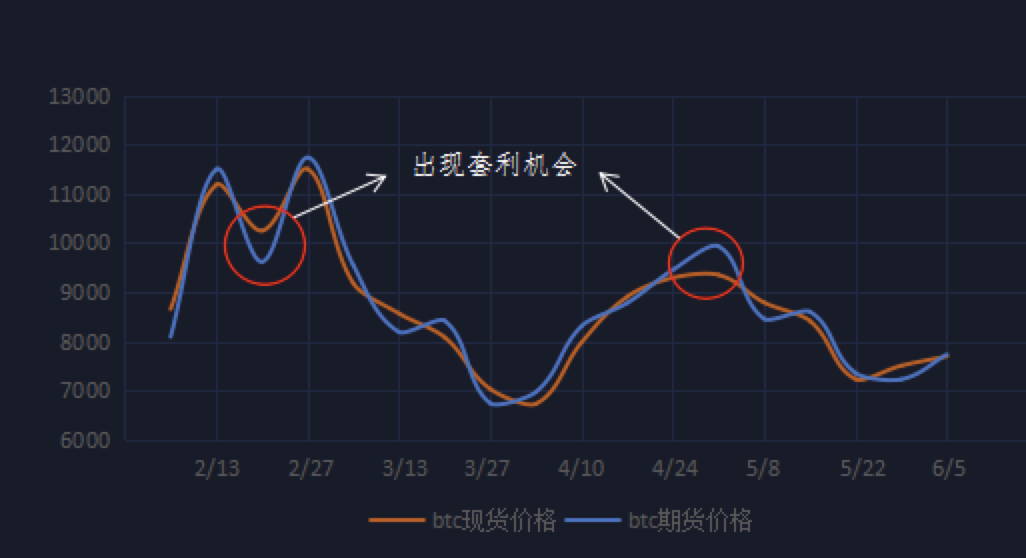
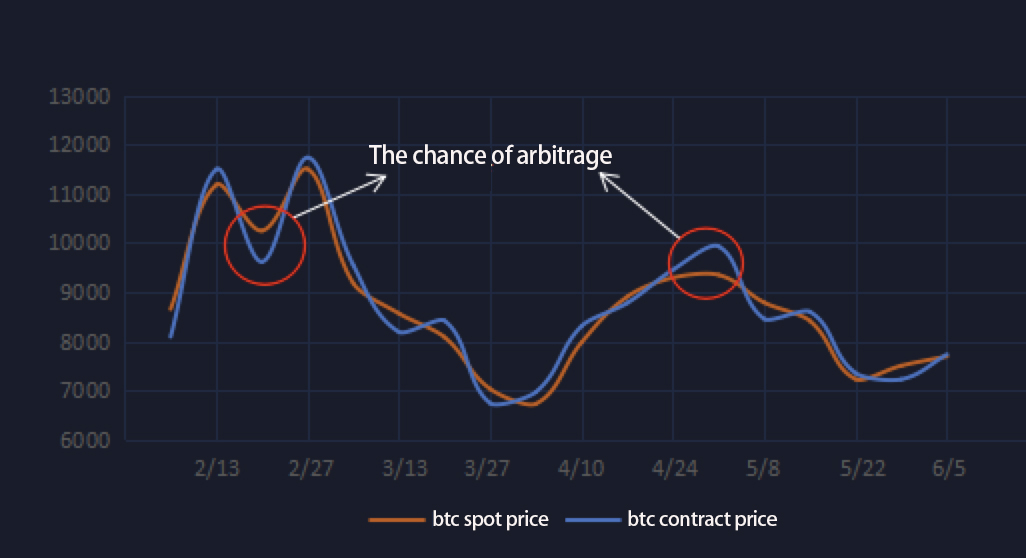
spot-contract update

Changed region(s): [[0.3431, 0.2437, 0.5926, 0.3351], [0.5926, 0.914, 0.7797, 0.9444], [0.4055, 0.914, 0.5614, 0.9749]]

diff --git a/README.md b/README.md
@@ -1,49 +1,53 @@
-# 期现套利策略
+# Spot_contract_ arbitrage
 
-期现套利是指利用期货市场和现货市场之间的差价，**在价格低的市场买入或做多，同时在价格高的市场卖出或者做空**，**等到差价消失时平仓从而获利的行为**。
+## Strategy description
 
-由于期货合约交割机制的存在，同一数字货币的价格在现货市场和期货市场紧密相连，期货价格最迟在合约到期日会和现货价格趋同，所以当期货合约和现货之间存在价差的时候，就可以进行无风险套利。
+Spot-contract arbitrave refres to the profitable strategy applies to the price spread between the futures market and spot market: **long in lower price market while short in the higher price market until the price spread disappears to close the positions**.  
 
-策略相当于“**在现货市场进货，在期货市场交割卖出**”，投资者所获得的单位利润为，当时期货价格与现货价格的价差减去持有成本和交割成本。
+Because the future contract settlement system, the prices of the same digital currency is closely connected in the spot market and the futures market, the the futures price will converge with the spot price at latest of the contract expiration date. So you could operate riskless arbitrage when the price spread shows up.  
 
-合约价格一定程度反映市场对于标的未来价格的预期。当出现剧烈行情时，合约价格将会与现货价格出现较大偏离，产生基差。本策略的核心逻辑为现货与合约之间基差的回归存在套利机会。合约价格在临近交割会趋近于现货价格；另一方面，基差也可能在市场波动率减小的过程中恢复到正常水平。
+To some extent, the contact price reflects to the market's expectations of the underlying assets. In the wild fluctuation, the price spread between futures market and spot market will rise up to result a basis. The nuclear logic of this strategy is that the basis of the futures and spot must retrace: the future price  will converge the spot price at latest of the contract expiration date, on the other hand, the basis will trace to the normal levels while the market fluctuations reduction.  
 
-举个例子，我们来看看具体怎么操作，**假设我们现在零手续费**：
+e.g.: let's see how it works, **if the trading fee is for free**
 
-<img src="kline.jpg" alt="kline" style="zoom:50%;" />
+![KLINE](KLINE.jpg)
 
-5月1日比特币期货价格为9925美元/枚，现货价格为9345美元/枚，基差为580美元/枚。
+On May 1, the price of BTC future is 9925 USD while the price of BTC is 9345 USD, the basis is 580 USD.
 
-至5月15日，比特币期货价格为8590美元/枚，当日现货价格为8410美元/枚，基差缩小到180美元/枚。
+On May 15, the price of BTC future is 8590 USD while the price of BTC is 8410 USD, the basis drops down to 180 USD.  
 
-如在5月1日，以9925美元/枚的价格开仓卖出一手比特币期货合约，同时以9345美元/枚的价格买入一枚比特币现货。
+If we short the BTC future valued as 1 BTC at 9925 USD, and we buy 1 BTC at 9345 USDT at the same time on May 1.  
 
-在5月15日时，对期货进行平仓，同时以8410美元/枚的价格卖出比特币。
+On May 15, close the future position and sell 1 BTC at 8410 USD.  
 
-此次期现套利组合盈利就是580-180=400，也就是每手期货保守盈利400点，折算成现货每枚比特币增加盈利400美元。
+Then this spot contract arbitrage profit is 400 USD = 580 USD - 180 USD.
 
-此外，我们可以将策略**高频化**，因为如果我们在期现套利时始终等到交割时才进行平仓获利，我们的交易次数会很少，整体的收益会比较偏低。
+We could say that the strategy is **"buying in the spot market, and closeing the contracts in future market"**, the unit profit obtained by investors is the price spread of futures price and the spot pricee at the same time minus the holding cost and settlement cost.  
 
-**通过对现货和期货价格的监控，我们可以发现两者价格曲线时互相交错的，所以我们只需要在有价差时建仓，在价格相等时平仓从而获利，等到再次出现价差时再次建仓，不断循环，不需要等到交割时再平仓，这样就可以大大提高交易频率，从而提高整体收益**。
+Besides, we could make the strategy **"higher frequency"**, because if we always wait for the settlement of futures to close the positionsand get the profit, we have few numbers of trades, then the overall profit would be relatively low.  
 
-**期现套利主要包括正向基差套利和反向基差套利**。
+**Through the monitoring of spot and futures prices, we could find that these two price curves intresect each other sometimes, so we only need to open the position when there is a price spread, and then close thee position when the price is equal to make a profit. When the pricee spread occurs again, we could open the position again. Continuously, there is no need to wait for settlement of futures, then the frequency of trades could be greatly increased, thereby increasing the overall profit**.  
 
-也就是说当现货价格被低估，期货合约价格被高估时，你可以卖出该期货合约，同时买入同等数量的现货，建立套利头寸。当现货和期货价格差距趋于正常时，将期货合约平仓，同时卖出对应现货，从中获得利润。
+**Spot-contract arbitrage includes positive basis arbitrage and reverse basis arbitrage**:
 
-相反，当现货价格被高估，期货合约价格被低估时，投资者可以买入该期货合约，同时卖出同等数量现货，建立套利头寸。当现货和期货价格趋于正常时，同时平仓，获利了结，这是反向基差套利。
+That is to say, when the spot price is underestimated and the futures contract price is overestimated, you can sell to short the futures contract while buying to long the same amount of spot to establish an arbitrage position. When the price spread of spot and futures becomes normal, close the futures contracts and sell the spot at the same time to obtain profits from it. This is positive basis arbitrage.
 
-**期现套利对期货市场有非常重要的作用**：
+Conversely, when the spot price is overestimated and the futures contract price is underestimated, investors could buy to long the futures contract and sell the same amount of spot at the smae time to establish an arbitrage position. When the price spread of spot and futures becomes normal, we need to close the positions at the same time to get profits. This is reverse basis arbitrage. 
 
-1. 正因为期货与现货之间可以套利，期货的价格才不会脱离现货价格而出现离谱的价格，使得数字货币的价格更合理，更能反应市场的走势。
-2. 套利行为有助于市场流动性的提高，更有利于投资者交易和套期保值操作的顺利进行。
+**Spot-contract arbitrage has a very important effect on the futures market**:  
 
-比特币现货价格跌宕起伏，与期货间的基差经常出现较大偏离。如果你能掌握期现套利的方法，抓住这些机会，那一定可以收获可观的利润。
+1. Because of spot-contract arbitrage, futures prices will not be outrageous and deviate from the spot prices, and it also make the price of digital cureencies more reasonable and more responsive to market trends.  
+2. Arbitrage operations helps to improve marekt liquidity, and is more conductive to the smooth progress of invesment trades and hedging operations.  
 
-**但是，在实操过程中，手续费是不可忽视的，而且需要开的合约张数也未必刚好是整数**。因此，由于这些误差，期现套利的收益会产生一些波动。在价格急剧波动的时候，收益波动也会比较大。
+Bitcoin spot prices fluctuate up and down, and the basis for futures ofthen deviates significantly. If you can control the spot-contract arbitrage  well and seize the opprtunities, you can definitely gain considerable profits.
 
-**值得关注的是，KuCoin拥有level3级别的交易数据、极优的撮合引擎，以及对api用户提供特别的手续费折扣，极大程度的减少了你在策略实施时的劣势，同时提供sandbox环境作为数据测试支撑，帮助你规避风险。**
+**However, during the actual operations, the trading fee cannot be ignored, and the number of contracts to be opened may not be exactly and integer**. Therefore, due to these possible error, the profit of spot-contract arbitrage could produce some fluctuations. When the price fluctuates sharply, the fluctuation of income would be relatively large.  
 
-**不过，请注意，如果你想在实际环境中利用策略获得稳定的盈利，我们希望你能够在sandbox环境配合其他参数或是策略进行测试调整，以使你能够达到目的，我们也非常期待你能分享你的测试数据以及独到的见解。**
+**Moreover, KuCoin provides the transaction data of level 3, great matching engine, and the commission discount specially offers to the API customers, which could greatly reduce the disadvantages of the trading operations. At the same time, we offer the sandbox environment as the data testing support to avoid the risks.**
 
-**当然，如果这个过程中，你遇到任何问题需要帮助亦或是有赚钱的策略想要分享，请在ISSUE中反映，我们会努力及时响应。**
+**Only a simple and incomplete trading strategy is provided here, so please pay attention to avoiding risks when using it. Of course, we do not want you to suffer more losses, so please do not directly run it in the actual environment before you have tested it yourself. We do not want you to become a philanthropist! ! !**
+
+**If you want to use the strategy in the actual environment to earn stable profits, we hope that you can make test adjustments in the sandbox environment with other parameters or strategies to enable you to achieve your goals. We also look forward to sharing your test data and Insights.**
+
+**Surely, if you encounter any problems in this process, or you have a profitable strategy to share, please reflect in ISSUE, we will try to respond in a timely manner.**
 

diff --git a/README_CN.md b/README_CN.md
@@ -1,26 +1,28 @@
 # 期现套利策略
 
+## 策略说明
+
 期现套利是指利用期货市场和现货市场之间的差价，**在价格低的市场买入或做多，同时在价格高的市场卖出或者做空**，**等到差价消失时平仓从而获利的行为**。
 
 由于期货合约交割机制的存在，同一数字货币的价格在现货市场和期货市场紧密相连，期货价格最迟在合约到期日会和现货价格趋同，所以当期货合约和现货之间存在价差的时候，就可以进行无风险套利。
-
-策略相当于“**在现货市场进货，在期货市场交割卖出**”，投资者所获得的单位利润为，当时期货价格与现货价格的价差减去持有成本和交割成本。
 
 合约价格一定程度反映市场对于标的未来价格的预期。当出现剧烈行情时，合约价格将会与现货价格出现较大偏离，产生基差。本策略的核心逻辑为现货与合约之间基差的回归存在套利机会。合约价格在临近交割会趋近于现货价格；另一方面，基差也可能在市场波动率减小的过程中恢复到正常水平。
 
 举个例子，我们来看看具体怎么操作，**假设我们现在零手续费**：
 
-<img src="kline.jpg" alt="kline" style="zoom:50%;" />
+![KLINE_CN](KLINE_CN.jpg)
 
 5月1日比特币期货价格为9925美元/枚，现货价格为9345美元/枚，基差为580美元/枚。
 
 至5月15日，比特币期货价格为8590美元/枚，当日现货价格为8410美元/枚，基差缩小到180美元/枚。
 
-如在5月1日，以9925美元/枚的价格开仓卖出一手比特币期货合约，同时以9345美元/枚的价格买入一枚比特币现货。
+如在5月1日，以9925美元/枚的价格卖出开空价值1枚比特币期货的合约，同时以9345美元/枚的价格买入一枚比特币现货。
 
 在5月15日时，对期货进行平仓，同时以8410美元/枚的价格卖出比特币。
 
-此次期现套利组合盈利就是580-180=400，也就是每手期货保守盈利400点，折算成现货每枚比特币增加盈利400美元。
+此次期现套利组合盈利就是580-180=400，也就是每手期货保守盈利400点，折算成现货每枚比特币增加盈利400美元。  
+
+策略相当于“**在现货市场进货，在期货市场交割卖出**”，投资者所获得的单位利润为，当时期货价格与现货价格的价差减去持有成本和交割成本。
 
 此外，我们可以将策略**高频化**，因为如果我们在期现套利时始终等到交割时才进行平仓获利，我们的交易次数会很少，整体的收益会比较偏低。
 
@@ -41,9 +43,11 @@
 
 **但是，在实操过程中，手续费是不可忽视的，而且需要开的合约张数也未必刚好是整数**。因此，由于这些误差，期现套利的收益会产生一些波动。在价格急剧波动的时候，收益波动也会比较大。
 
-**值得关注的是，KuCoin拥有level3级别的交易数据、极优的撮合引擎，以及对api用户提供特别的手续费折扣，极大程度的减少了你在策略实施时的劣势，同时提供sandbox环境作为数据测试支撑，帮助你规避风险。**
+**此外，KuCoin拥有level3级别的交易数据、极优的撮合引擎，以及对api用户提供特别的手续费折扣，极大程度的减少了你在策略实施时的劣势，同时提供sandbox环境作为数据测试支撑，帮助你规避风险。**  
 
-**不过，请注意，如果你想在实际环境中利用策略获得稳定的盈利，我们希望你能够在sandbox环境配合其他参数或是策略进行测试调整，以使你能够达到目的，我们也非常期待你能分享你的测试数据以及独到的见解。**
+**这里仅提供一个简单且不完备的交易策略，所以在使用时请注意规避风险，当然，我们不希望你出现较多的亏损，所以在未经自己亲手测试之前，请千万不要直接在实际环境使用，我们也不想你成为一个慈善家！！！**
+
+**如果你想在实际环境中利用策略获得稳定的盈利，我们希望你能够在sandbox环境配合其他参数或是策略进行测试调整，以使你能够达到目的，我们也非常期待你能分享你的测试数据以及独到的见解。**
 
 **当然，如果这个过程中，你遇到任何问题需要帮助亦或是有赚钱的策略想要分享，请在ISSUE中反映，我们会努力及时响应。**
 
